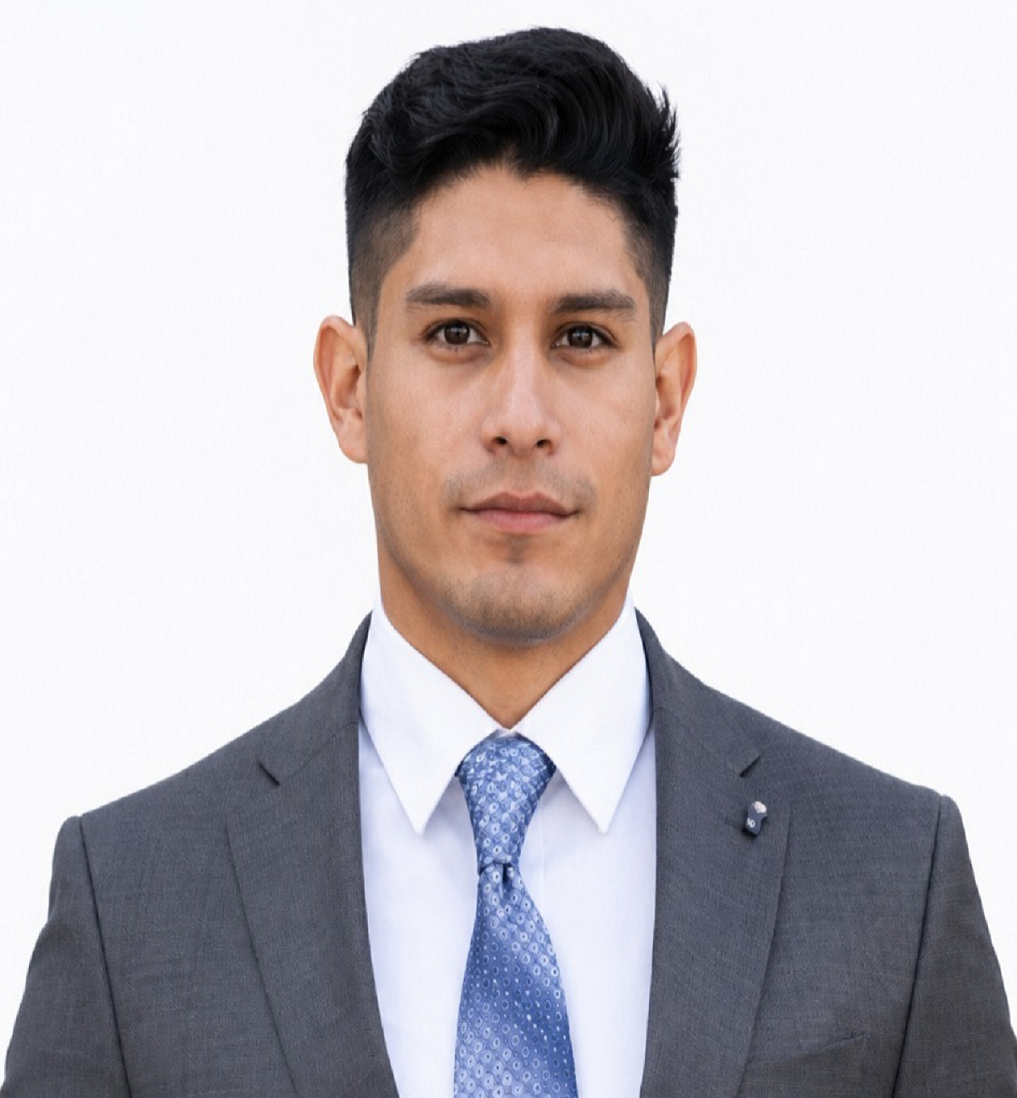
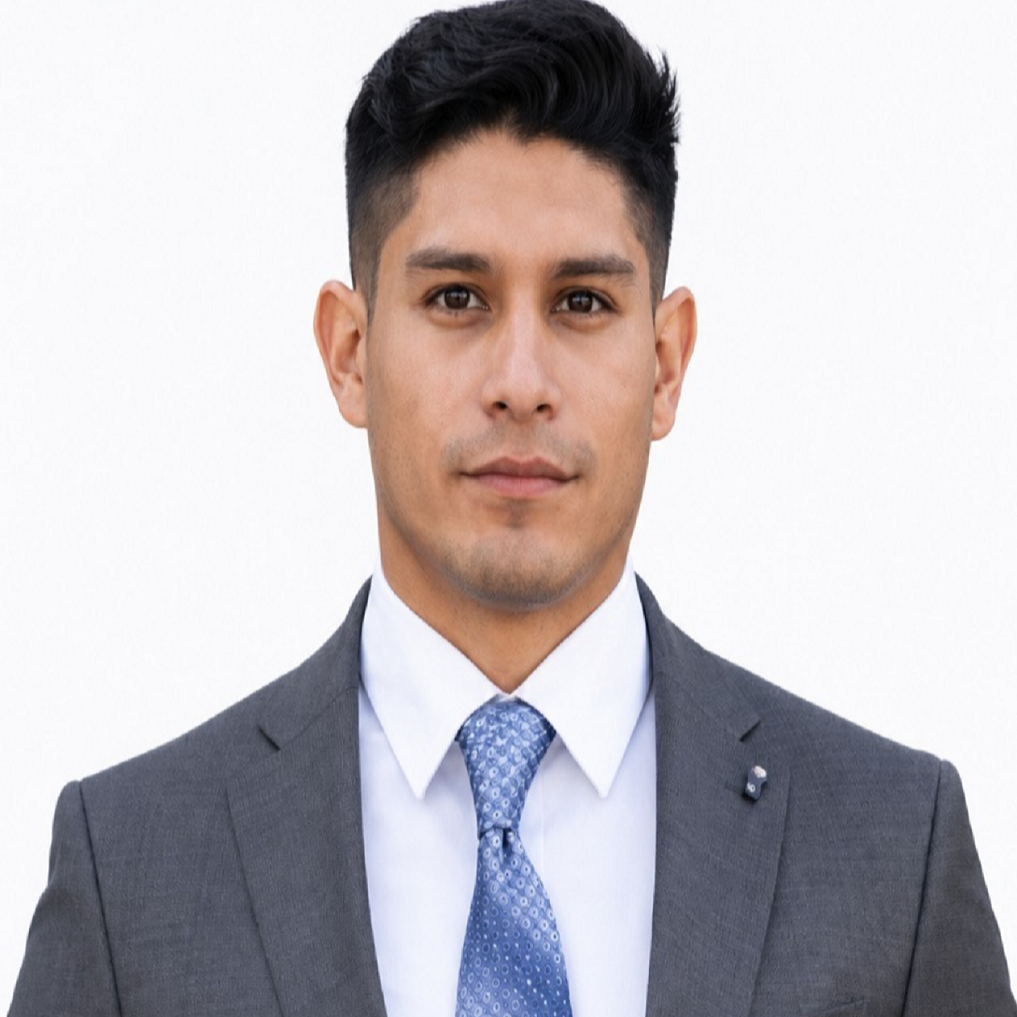
cambios corregidos

diff --git a/HTML/nosotros.html b/HTML/nosotros.html
@@ -83,7 +83,7 @@
                             </div>
                             <div class="card-body d-flex flex-column flex-grow-1">
                                 <h5 class="card-title">Arturo <br> Rodriguez</h5>
-                                <p class="card-text">ESPECIALISTA EN ORIGEN</p>
+                                <p class="card-text">Desarrollador Frontend</p>
                             </div>
                         </div>
 
@@ -91,8 +91,7 @@
                         <div class="card-back border-1 bg-transparent text-center w-100 d-flex flex-column">
                             <div class="d-flex flex-column align-items-center justify-content-center h-100 p-3">
                                 <div class="card-body d-flex flex-column flex-grow-1 justify-content-center">
-                                    <p class="flex-grow-1 d-flex align-items-center justify-content-center">Asegura
-                                        que cada grano provenga de granjas con prácticas éticas.
+                                    <p class="flex-grow-1 d-flex align-items-center justify-content-center">Me encargo de crear interfaces intuitivas, accesibles y eficientes para usuarios.
                                     </p>
                                 </div>
                             </div>
@@ -156,7 +155,7 @@
                         <div class="card-back border-1 bg-transparent text-center w-100 d-flex flex-column">
                             <div class="d-flex flex-column align-items-center justify-content-center h-100 p-3">
                                 <div class="card-body d-flex flex-column flex-grow-1 justify-content-center">
-                                    <p class="flex-grow-1 d-flex align-items-center justify-content-center">Enfocada en
+                                    <p class="flex-grow-1 d-flex align-items-center justify-content-center">Me dedico a
                                         construir interfaces intuitivas y mejorar la experiencia visual del proyecto.
                                     </p>
                                 </div>
@@ -251,7 +250,7 @@
                         </div>
                         <div class="card-body d-flex flex-column flex-grow-1">
                             <h5 class="card-title">José <br> Flores</h5>
-                            <p class="card-text">relaciones <br> con productores</p>
+                            <p class="card-text">Desarrollador <br> Backend</p>
                         </div>
                     </div>
 
@@ -259,9 +258,7 @@
                     <div class="card-back border-1 bg-transparent text-center w-100 d-flex flex-column">
                         <div class="d-flex flex-column align-items-center justify-content-center h-100 p-3">
                             <div class="card-body d-flex flex-column flex-grow-1 justify-content-center">
-                                <p class="flex-grow-1 d-flex align-items-center justify-content-center">Asegura que cada
-                                    grano
-                                    provenga de granjas con prácticas éticas.
+                                <p class="flex-grow-1 d-flex align-items-center justify-content-center"> Me encargo del desarrollo de APIs REST, autenticación de usuarios, lógica de negocio, integración con MySQL mediante Spring Boot y apoyo en la arquitectura del sistema.
                                 </p>
                             </div>
                         </div>
@@ -283,7 +280,7 @@
                         </div>
                         <div class="card-body d-flex flex-column flex-grow-1">
                             <h5 class="card-title">Karem <br> Reyes</h5>
-                            <p class="card-text">atención al cliente</p>
+                            <p class="card-text">Desarrolladora backend</p>
                         </div>
                     </div>
 
@@ -291,9 +288,7 @@
                     <div class="card-back border-1 bg-transparent text-center w-100 d-flex flex-column">
                         <div class="d-flex flex-column align-items-center justify-content-center h-100 p-3">
                             <div class="card-body d-flex flex-column flex-grow-1 justify-content-center">
-                                <p class="flex-grow-1 d-flex align-items-center justify-content-center">Asegura que cada
-                                    grano
-                                    provenga de granjas con prácticas éticas.
+                                <p class="flex-grow-1 d-flex align-items-center justify-content-center">Desarrollo y colaboro en la planeación y aportación de ideas para mejorar el proyecto
                                 </p>
                             </div>
                         </div>
@@ -315,7 +310,7 @@
                         </div>
                         <div class="card-body d-flex flex-column flex-grow-1">
                             <h5 class="card-title">Margarita <br> Martinez</h5>
-                            <p class="card-text">ESPECIALISTA SENSORIAL</p>
+                            <p class="card-text">Product Owner <br>& <br>Agrónoma</p>
                         </div>
                     </div>
 
@@ -323,9 +318,7 @@
                     <div class="card-back border-1 bg-transparent text-center w-100 d-flex flex-column">
                         <div class="d-flex flex-column align-items-center justify-content-center h-100 p-3">
                             <div class="card-body d-flex flex-column flex-grow-1 justify-content-center">
-                                <p class="flex-grow-1 d-flex align-items-center justify-content-center">Asegura que cada
-                                    grano
-                                    provenga de granjas con prácticas éticas.
+                                <p class="flex-grow-1 d-flex align-items-center justify-content-center">Fusiono la optimización de procesos del campo con el desarrollo web para cultivar productos digitales eficientes, escalables y orientados al éxito en el e-commerce.
                                 </p>
                             </div>
                         </div>